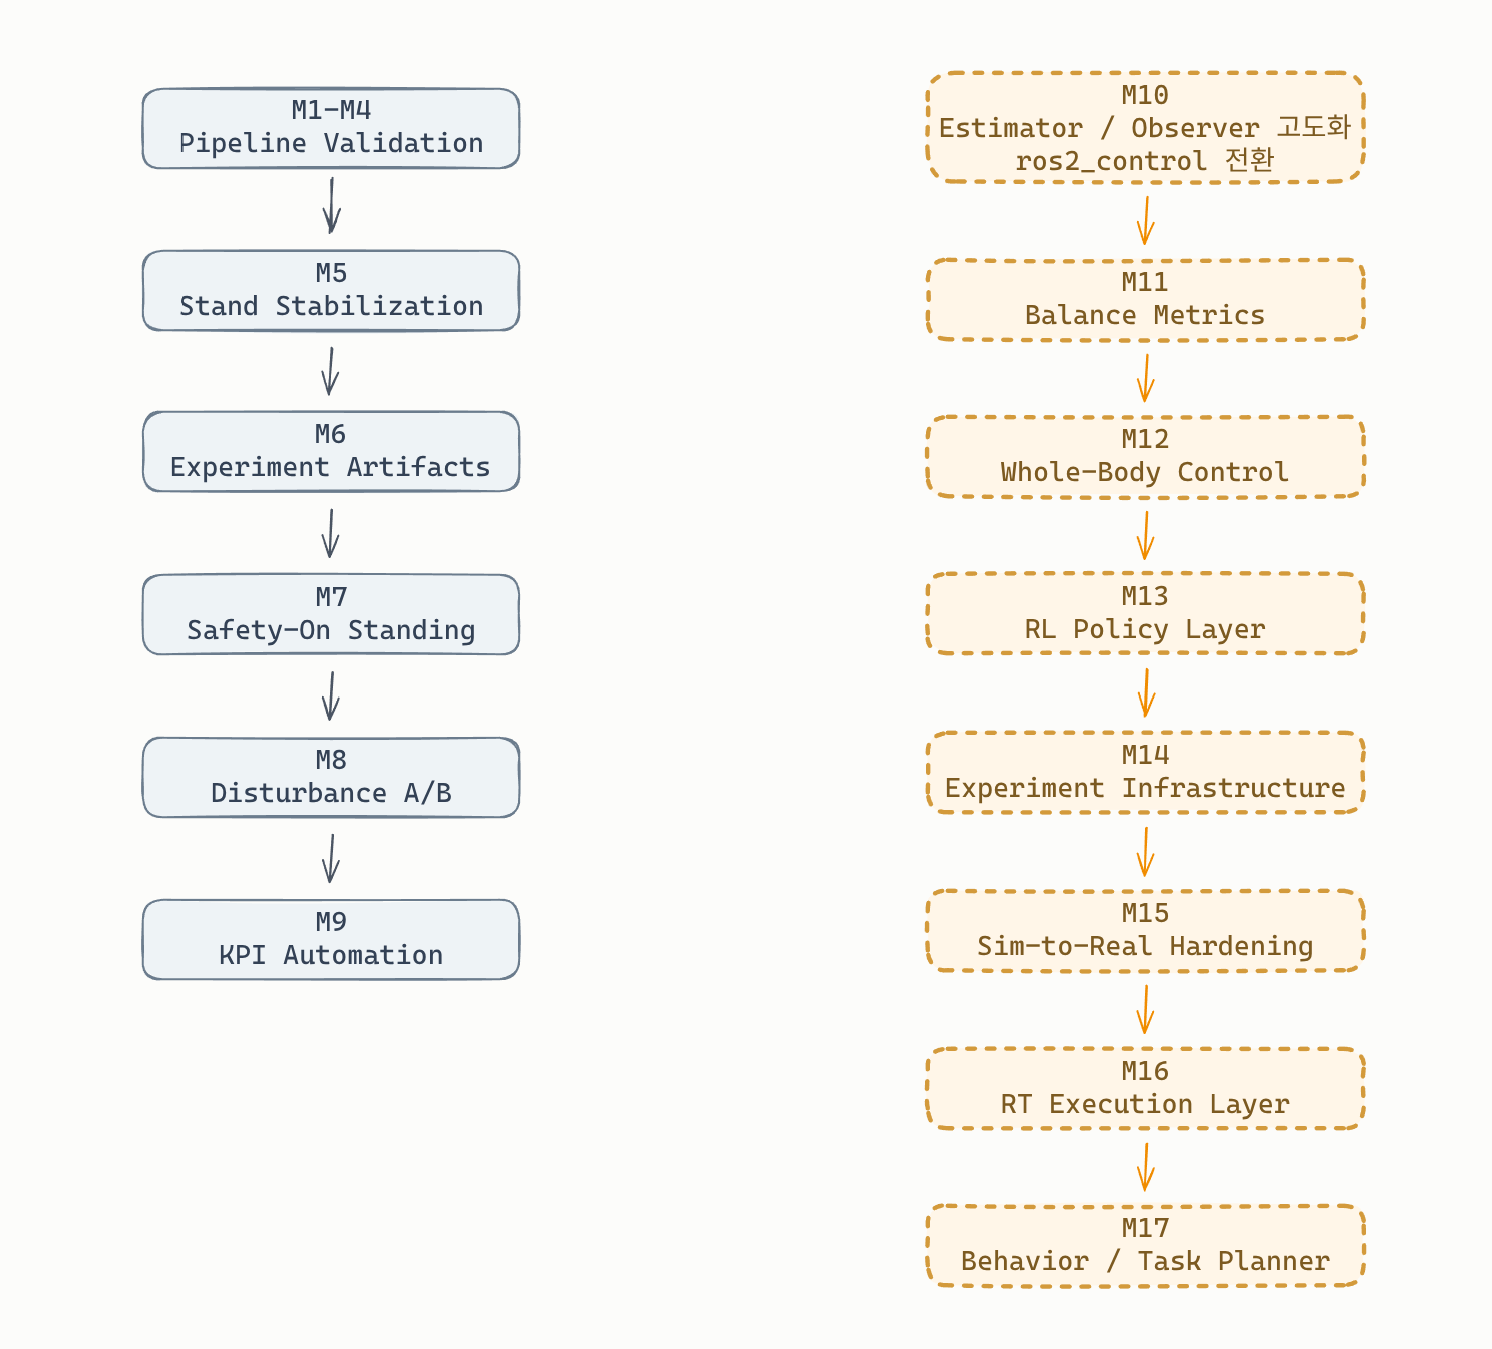
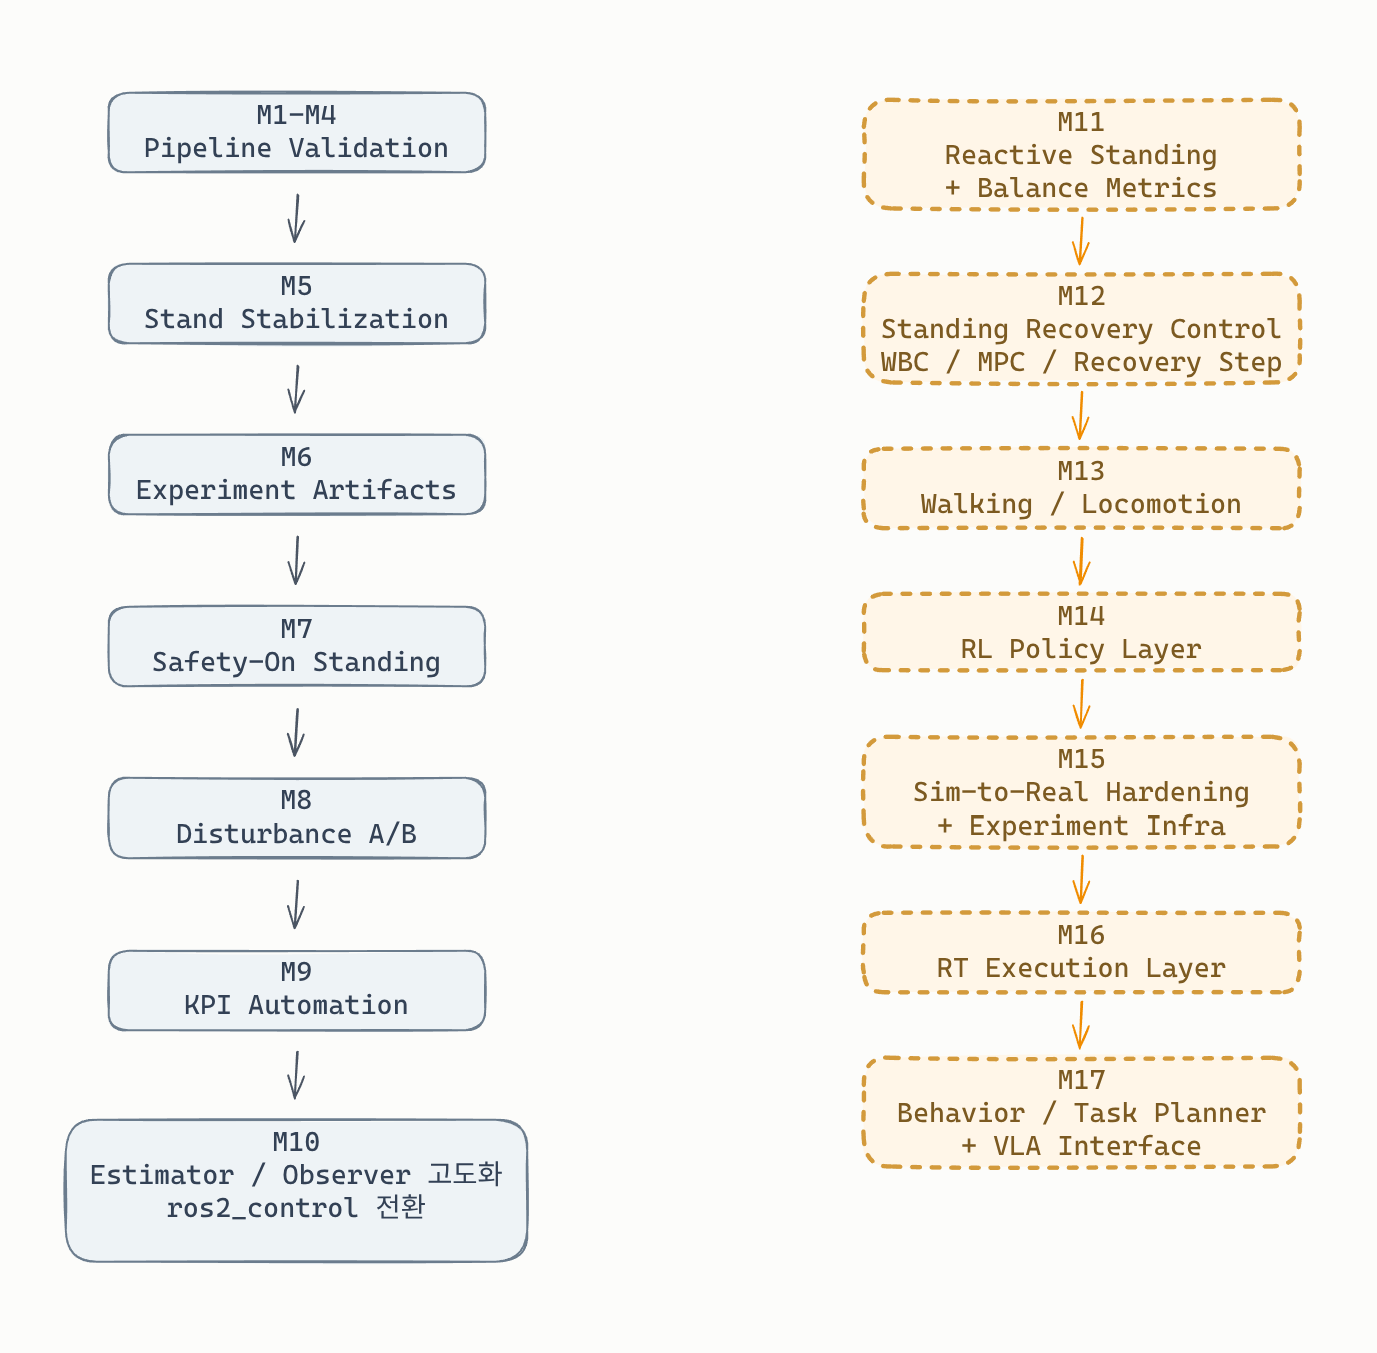
docs: 마일스톤 변경

diff --git a/MASTER_PLAN.md b/MASTER_PLAN.md
@@ -406,6 +406,9 @@ run 결과를 자동 요약하고 run 간 비교 가능한 형태로 만든다.
 
 포트폴리오 정리/문서화는 공식 milestone이 아니라 보조 작업으로 별도 관리한다.
 
+아래 `M11+`는 "포트폴리오 증빙 순서"가 아니라,
+실제 휴머노이드 제어 능력을 쌓아 가는 순서를 기준으로 다시 정의한다.
+
 ---
 
 # M10 — Estimator / Observer 고도화 + Native Control Stack 고정
@@ -440,67 +443,104 @@ active path
 
 ---
 
-# M11 — Balance Metrics
+# M11 — Reactive Standing Envelope + Balance Metrics
 
 목표
 
-넘어짐을 물리적으로 설명할 수 있는 지표를 추가한다.
+현재 `M5/M7/M8` standing baseline을 더 "바로 서 있는" 상태로 고도화하고,
+정해진 외란 범위 안에서 복원 가능한 reactive standing을 만든다.
 
-계산
+구성
 
+- estimator / observer refinement
+- disturbance envelope 정의
 - COM projection
 - ZMP
 - capture point
 - support polygon margin
+- recovery time / peak tilt / settle time
+
+핵심 질문
+
+작은 외란에 대해서
+"기우뚱거리며 겨우 버틴다"가 아니라
+"upright posture를 다시 회복하며 선다"를 만들 수 있는가
 
 ---
 
-# M12 — Whole-Body Control
+# M12 — Standing Recovery Control (WBC / MPC / Recovery Step)
 
 목표
 
-joint-space PD에서 task-space control로 확장한다.
+joint-space stand PD에서 벗어나,
+task-space / model-based standing recovery로 확장한다.
 
-가능한 task
+핵심 제어
 
 - CoM
 - torso
 - foot
+- foot placement
+- recovery step trigger
+
+가능한 접근
+
+- WBC
+- MPC
+- reference generator + stabilizer
+
+핵심 질문
+
+더 큰 외란에 대해서
+상체/발목만으로 버티는 것이 아니라,
+필요하면 발을 옮겨가며 다시 설 수 있는가
 
 ---
 
-# M13 — RL Policy Layer
+# M13 — Walking / Locomotion
 
 목표
 
-low-level stabilizing controller 위에 policy layer를 추가한다.
+recovery step을 연속 locomotion으로 확장한다.
+
+구조
+
+- gait / phase management
+- step timing
+- start / stop / turn
+- velocity command tracking
+
+핵심 질문
+
+비상 복구용 한 발 내딛기를 넘어서,
+의도적인 다중 스텝 보행을 만들 수 있는가
+
+---
+
+# M14 — RL Policy Layer
+
+목표
+
+low-level stabilizing controller / locomotion stack 위에
+policy layer를 추가한다.
 
 구조
 
 low level stabilizing controller
 → high level policy / residual / reference
 
----
+의도
 
-# M14 — Experiment Infrastructure
-
-목표
-
-실험 결과 관리 자동화를 더 고도화한다.
-
-가능한 기능
-
-- run comparison dashboard
-- KPI trend plots
-- failure taxonomy
-- auto markdown summary
+- hand-designed stabilizer를 버리는 것이 아니라,
+  그 위에 learned policy를 얹어 robustness / agility / command tracking을 넓힌다.
 
 ---
 
-# M15 — Sim-to-Real Hardening
+# M15 — Sim-to-Real Hardening + Experiment Infrastructure
 
 목표
 
+실험 결과를 체계적으로 비교 가능하게 유지하면서,
 실기체 대응 robustness를 높인다.
 
 추가
@@ -509,6 +549,15 @@ low level stabilizing controller
 - sensor noise
 - latency
 - domain randomization
+- run comparison dashboard
+- KPI trend plots
+- failure taxonomy
+- auto markdown summary
+
+핵심 질문
+
+걷기 / recovery controller가
+깨끗한 sim 한 장면이 아니라 다양한 조건 변화에도 유지되는가
 
 ---
 
@@ -539,12 +588,13 @@ real-time execution 환경을 구축한다.
 
 ---
 
-# M17 — Behavior / Task Planner
+# M17 — Behavior / Task Planner + VLA Interface
 
 목표
 
-low-level controller 위에 behavior / task planner 계층을 추가해
-휴머노이드 전체 제어 시스템을 완성한다.
+low-level controller / locomotion 위에
+behavior / task planner 계층을 추가하고,
+필요 시 VLA 같은 high-level task interface를 연결한다.
 
 planner는 robot state / disturbance 상태 / task mode를 기반으로
 action primitive를 선택하고 controller reference를 생성한다.
@@ -562,6 +612,14 @@ planner
 - sit
 - recover
 - step preparation
+- walk
+- turn
+
+후속 high-level 범위
+
+- task mode selection
+- semantic command to behavior mapping
+- VLA / multimodal policy interface
 
 핵심 질문
 
@@ -632,15 +690,15 @@ Sensors
    - native `ros2_control` 실행 경계를 고정한다.
    - 즉 `rb_estimation -> rb_standing_controller -> rb_hardware_interface -> rb_safety`
      경로를 active path로 확정한다.
-2. `M11 ~ M12`
-   - 위 active path를 유지한 채 metrics / balance / control 고도화를 진행한다.
+2. `M11 ~ M13`
+   - 위 active path를 유지한 채 estimation / balance / locomotion control을 고도화한다.
    - 필요 시 `rb_control` 또는 추가 controller package를 확장한다.
-3. `M13 ~ M14`
-   - RL / experiment infrastructure가 커지면
+3. `M14 ~ M16`
+   - RL / hardening / experiment infrastructure / RT 요구가 커지면
      `rb_bringup`, `rb_recorder`, 필요 시 `rb_sim_bridge`를 추가/분리한다.
-   - 즉 launch / orchestration / logging을 제어 패키지와 분리한다.
+   - 즉 launch / orchestration / logging / deployment 계층을 제어 패키지와 분리한다.
 4. `M17`
-   - planner / behavior가 실제 runtime 계층으로 들어오는 시점에
+   - planner / behavior / VLA interface가 실제 runtime 계층으로 들어오는 시점에
      `rb_planning`을 별도 패키지로 추가한다.
 
 정리하면,
@@ -656,6 +714,7 @@ Sensors
 
 현재 우선순위는 아래 순서로 고정한다.
 
-1. 포트폴리오 정리 / 문서·증빙 갱신
-2. small cleanup — raw reason parsing / runner polish
-3. M10 선행 정리 반영 후 M11+ 확장
+1. `M11` reactive standing + balance metrics 범위 정의와 계약 정리
+2. `M12` standing recovery control 방향 결정 (`WBC` / `MPC` / hybrid)
+3. `M13` walking 진입 전제 정리
+4. 문서·증빙 갱신과 small cleanup은 보조 작업으로 병행
